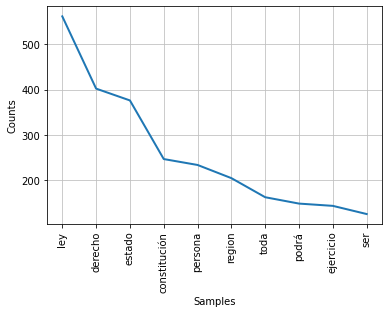
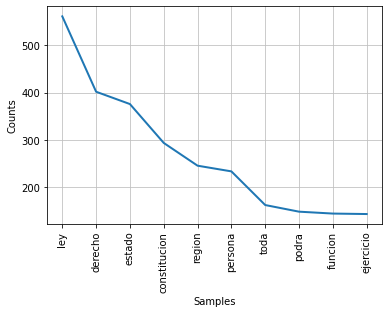
avances en codigo y modelos de clustering

diff --git a/proyecto_nueva_constitucion_chile.py b/proyecto_nueva_constitucion_chile.py
@@ -14,14 +14,30 @@ b) que al introducir un articulo indique el ámbito de la comisión al cual pert
 import pandas as pd
 import numpy as np
 
+####### NPL ########
 import re
+import nltk
+from nltk.stem import PorterStemmer
+from sklearn.feature_extraction.text import  TfidfVectorizer
+
+###### Graficos y visualizacion ########
+import matplotlib.pyplot as plt
 from wordcloud import WordCloud
 from PIL import Image # tratamiento de imagenes
 import PIL
+import seaborn as sns
 
-import nltk
-from nltk.stem import PorterStemmer
-import matplotlib.pyplot as plt
+###### PCA #######
+from sklearn.decomposition import PCA
+
+##### Clustering #####
+from sklearn.cluster import DBSCAN , KMeans , AgglomerativeClustering
+from sklearn.datasets import make_circles
+from sklearn.preprocessing import MinMaxScaler
+from sklearn.neighbors import NearestNeighbors
+from sklearn.metrics import silhouette_score
+from scipy.spatial import distance_matrix 
+from scipy.cluster import hierarchy 
 
 # %%
 '''datos obtenidos desde sitio web oficial de la convención 
@@ -38,36 +54,77 @@ data.head()
 # %%
 #juntamos los articulos en 1 solo texto no sé porque XD
 texto = data.Texto.sum()
+texto
 # %%
 'descargamos los stopwords en español'
 nltk.download('stopwords') 
-palabras_funcionales=nltk.corpus.stopwords.words("spanish")
-palabras_funcionales.remove('estado')
+sw=nltk.corpus.stopwords.words("spanish")
+sw.remove('estado')  # removemos la palabra estado de la lista de stopwords
 # %%
 'análisis EDA a través del uso del kit de NLTK'
 nltk.download('spanish_grammars')
+
 # %%
-data["Texto_tk"] = data["Texto"].apply(lambda x:nltk.word_tokenize(x,"spanish"))
-data["Texto_tk"] = data["Texto_tk"].apply(lambda x: list(map(str.lower, x)))
-# %%
-#eliminamos simbolos . , : ;
-simbolos = ['.',',', ':' ,';','\'','(',')','&','#','%']
-'quitamos los simbolos que no aportan en nada'
+'###### Funciones para de tratamiento de texto'
+#eliminamos simbolos . , : ; que no aportan para este analisis
+'''simbolos = ['.',',', ':' ,';','\'','(',')','&','#','%']
 for i in simbolos:
     for j in data["Texto_tk"]:
         try:
             j.remove(i)
         except:
-            continue
+            continue'''
+
+# función para quitar tildes
+def sin_tildes(s):
+    tildes = (
+        ("á", "a"),
+        ("é", "e"),
+        ("í", "i"),
+        ("ó", "o"),
+        ("ú", "u"),
+    )
+    for origen, destino in tildes:
+        s = s.replace(origen, destino)
+    return s
+
+# funcion para eliminar caracteres especiales, convierte todo a minúscula, quita tildes 
+def texto_limpio(texto):
+    texto = texto.lower() # convertir en minúsculas
+    texto = re.sub(r"[\W\d_]+", " ",texto) # remover caract especiales y números
+    texto = sin_tildes(texto) # remove tildes
+    #texto = texto.split() # tokenizar
+    #texto = [palabra for palabra in texto if len(palabra) > 3] # eliminar palabras con menos de 3 letras
+    #texto = [palabra for palabra in texto if palabra not in sw] # stopwords
+    #texto = " ".join(texto)
+    return texto
+
+# funcion para remover los stopwords y stemizar palabras tokenizadas dentro de una lista
+def quitar_stopwords(lista_tk):
+    stemmer = PorterStemmer()
+    tokens_limpios=[]
+    for token in lista_tk:
+        if token not in sw:
+            if len(token) > 1:
+                if token != "...":
+                    tokens_limpios.append(token)
+    return [stemmer.stem(word) for word in tokens_limpios]
 
 # %%
-'wordcloud texto tokenizado sin simbolos'
+'#### aplicamos las transformaciones para limpiar y generar tokens'
+data['Texto_limpio']= data['Texto'].astype(str)
+data['Texto_limpio'] = data['Texto'].apply(lambda texto: texto_limpio(texto)) 
+data["Texto_tk"] = data["Texto_limpio"].apply(lambda x:nltk.word_tokenize(x,"spanish"))
+# data["Texto_tk"] = data["Texto_tk"].apply(lambda x: list(map(str.lower, x)))
+data.head()
+# %%
+'wordcloud texto tokenizado sin simbolos ni numeros'
 texto_tk = data.Texto_tk.sum()
 texto_const= ''
 for i in texto_tk:
     texto_const=texto_const+' '+i
 
-texto_const_wc = WordCloud(background_color='black', max_words=len(texto_const), stopwords=palabras_funcionales)
+texto_const_wc = WordCloud(background_color='black', max_words=len(texto_const), stopwords=sw)
 texto_const_wc.generate(texto_const)
 
 fig, ax = plt.subplots(figsize=(10,10))
@@ -75,56 +132,48 @@ ax.imshow(texto_const_wc)
 ax.axis('off')
 plt.show()
 # %%
-'riqueza lexica baja 9%'
-tokens = data.Texto_tk.sum()
-palabras_totales = len(tokens)
-tokens_conjunto=set(tokens) 
-palabras_diferentes=len(tokens_conjunto)
-riqueza_lexica=palabras_diferentes/palabras_totales
+texto_tk
+# %%
+'riqueza lexica baja 9.9%'
+#tokens = data.Texto_tk.sum()
+palabras_totales = len(texto_tk) # calculo el total de palabras del texto
+palabras_unicas = set(texto_tk)  # creo objeto set de datos para tener palábras únicas
+palabras_diferentes = len(palabras_unicas) # calculo el total de palabras diferentes a partir del set de palabras
+riqueza_lexica = palabras_diferentes/palabras_totales # determino la riqueza léxica
 print('palabras totales',palabras_totales,'\n palabras diferentes',
     palabras_diferentes,'\n riqueza lexica',riqueza_lexica)
 
 # %%
 'dispersion palabra más repetidas y determino los hapaxes'
-texto_nltk=nltk.Text(tokens) 
-lista_palabras=["ley","derechos","podrá","personas","estado"] 
-texto_nltk.dispersion_plot(lista_palabras)
+texto_nltk = nltk.Text(texto_tk) # lo convierto a objeto texto de nltk
+lista_palabras = ["ley","derechos","podrá","personas","estado"] # lista de palabras más repetidas 
+texto_nltk.dispersion_plot(lista_palabras) # grafico la dispersión dentro del texto de las palabras más repetidas
+
+# %%
 # determino frecuencia de palababras
-distribucion=nltk.FreqDist(texto_nltk)
-lista_frecuencias=distribucion.most_common() 
+distribucion = nltk.FreqDist(texto_nltk) # calculo la distribución de la frecuencia de palabras dentro del texto
+lista_frecuencias = distribucion.most_common() # mismo cálculo de distribución pero como tipo de objeto lista
 # determino los hapax 
-hapaxes=distribucion.hapaxes() 
+hapaxes = distribucion.hapaxes() # buscamos los hapaxses sobre el objeto nltk de distribución de palabras 
 for hapax in hapaxes: 
     print(hapax)
-len(hapaxes)
-
-
+len(hapaxes) #2042
 # %%
-'definimos una funcion para remover los stopwords de una lista de tokens'
-
-def quitar_stopwords(tokens):
-    stemmer = PorterStemmer()
-    tokens_limpios=[]
-    for token in tokens:
-        if token not in palabras_funcionales:
-            if len(token) > 1:
-                if token != "...":
-                    tokens_limpios.append(token)
-    return [stemmer.stem(word) for word in tokens_limpios]
-print(data["Texto_tk"][0])
-
-data["Texto_tk_limpio"] = data["Texto_tk"].apply(lambda x: quitar_stopwords(x))
+# creamos nueva columna sobre datos limpios, ahora sin stopwords
+data["Texto_tk_sw_lm"] = data["Texto_tk"].apply(lambda x: quitar_stopwords(x))
+data.head()
 # %%
-tokens_limpios = data.Texto_tk_limpio.sum()
-nltk.FreqDist(nltk.Text(tokens_limpios)).plot(10)
+# repetimos ejercicio ahora sobre columna sin stopwords y graficamos frecuencia
+texto_tk_sw_lm = data.Texto_tk_sw_lm.sum()
+nltk.FreqDist(nltk.Text(texto_tk_sw_lm)).plot(10)
 # %%
 'wordcloud de palabras sin stopwords y stemizado'
-texto_tk_limpio = data.Texto_tk_limpio.sum()
+
 texto_const_limpio= ''
-for i in texto_tk:
+for i in texto_tk_sw_lm:
     texto_const_limpio=texto_const_limpio+' '+i
 
-texto_const_limpio_wc = WordCloud(background_color='black', max_words=len(texto_const_limpio), stopwords=palabras_funcionales)
+texto_const_limpio_wc = WordCloud(background_color='black', max_words=len(texto_const_limpio), stopwords=sw)
 texto_const_wc.generate(texto_const_limpio)
 
 fig, ax = plt.subplots(figsize=(10,10))
@@ -132,21 +181,163 @@ ax.imshow(texto_const_wc)
 ax.axis('off')
 plt.show()
 # %%
-# import sklearn.feature_extraction.text as txt
-from sklearn.feature_extraction.text import CountVectorizer
-from sklearn.feature_extraction.text import TfidfTransformer, TfidfVectorizer
+texto_const_limpio
+# %%
+'dispersion palabra más repetidas y determino los hapaxes'
+texto_nltk_swlm = nltk.Text(texto_tk_sw_lm) # lo convierto a objeto texto de nltk
+# determino frecuencia de palababras
+distribucion = nltk.FreqDist(texto_nltk_swlm) # calculo la distribución de la frecuencia de palabras dentro del texto
+lista_frecuencias = distribucion.most_common() # mismo cálculo de distribución pero como tipo de objeto lista
+lista_frecuencias
+# %%
+lista_palabras = ["ley","derecho","estado",'constitucion','region'] # lista de palabras más repetidas 
+texto_nltk_swlm.dispersion_plot(lista_palabras) # grafico la dispersión dentro del texto de las palabras más repetidas
 
 # %%
+# determino los hapax 
+hapaxes = distribucion.hapaxes() # buscamos los hapaxses sobre el objeto nltk de distribución de palabras 
+for hapax in hapaxes: 
+    print(hapax)
+len(hapaxes) #2042
+
+
+# %%
+'########## Vectorizamos ponderando peso de palabras por articulo ####################'
+data['Articulo_limpio'] = data["Texto_tk_sw_lm"].apply(lambda x: ' '.join(x)).values #convertimos en frase la lista de tokens para generar el vector
 'armamos el bag of words'
-#convertimos en frase la lista de tokens para generar el vector
-data['Texto_frase_limpia'] = data["Texto_tk_limpio"].apply(lambda x: ' '.join(x)).values
-count = CountVectorizer()
-array=data["Texto_frase_limpia"]
-bag = count.fit_transform(array)
-
-tfidf = TfidfTransformer()
+bag_articulos_limpios = np.array(data["Articulo_limpio"]) # convertimos token a array de palabras
 np.set_printoptions(precision=2)
-print(tfidf.fit_transform(bag).toarray().shape)
+vectorizador = TfidfVectorizer()
+matriz_palabras = vectorizador.fit_transform(bag_articulos_limpios)
+matriz_palabras = matriz_palabras.astype('float32')
 # %%
-TfidfVectorizer()
+matriz_palabras.toarray().shape
+
+# %%
+n_palabras= vectorizador.vocabulary_
+n_palabras
+'armamos la matriz con el objeto vectorizador ffidf'
+df2 = pd.DataFrame(matriz_palabras.toarray())  # el array de matriz palabras pasamos a dataframe
+df2.columns = vectorizador.get_feature_names_out() # agregamos nombres a las columnas con las palabras del vocabulario
+df2.head()
+nom_df2_colum = df2.columns
+nom_df2_colum
+
+# %%
+'############### PCA no me funciona con los pocos registros que hay...  #############'
+pca = PCA() # objeto de PCA n_components=1000 con un máximo de 1000 componentes
+pca = pca.fit(df2) # ajustamos el PCA al df2 de matriz de palabras
+
+print(pca.components_.shape)
+
+plt.plot(np.cumsum(pca.explained_variance_ratio_))
+plt.xlabel('number of components')
+plt.ylabel('Explained variance')
+plt.show()
+
+lista_PCA = [ 'PC'+str(i) for i in range(len(pca.components_)) ] # generamos la lista de nombres de componentes del PCA
+
+reduced_data = pca.transform(df2)  # aplicamos la transformación al dataframe de la matriz de palabras reduciendo la dimensionalidad
+reduced_data = pd.DataFrame(reduced_data, columns = lista_PCA) # agregamos nombre de las columnas asociadas a los componentes del PCA
+temp = data.reset_index() #df original reseteamos el indice para poder concatenar
+df3 = pd.concat([temp,reduced_data], axis=1) #concatenamos dataframe original con componentes
+
+
+# %%
+'############ datos para train y test ###########'
+#X = df3.drop(columns=['label'], axis=1) # creamos las variables independientes
+#y = df3['label']  # creamos la variable dependiente
+X = df2.values
+# %%
+'primero determinamos el valor de epsilon'
+neigh = NearestNeighbors(n_neighbors=2)
+nbrs = neigh.fit(X)
+distances, indices = nbrs.kneighbors(X)
+
+distances = np.sort(distances, axis=0)
+distances = distances[:,1]
+plt.plot(distances)
+# 1.25
+# %%
+epsilon = 1.25
+minimumSamples = 3
+db = DBSCAN(eps=epsilon, min_samples=minimumSamples).fit(X)
+labels_dbscan = db.labels_
+
+df2["clase-dbscan"]=labels_dbscan
+df3["clase-dbscan"]=labels_dbscan
+data["clase-dbscan"]=labels_dbscan
+
+plt.figure(figsize=(8,6))
+sns.scatterplot(df2['ley'] , df2['estado'], hue = df2['clase-dbscan'], palette="Set2")
+plt.show()
+# %%
+'K-means'
+# graficamos la inercia para determinar el codo
+inercias = [] 
+  
+for k in range(2,20): 
+    kmeans = KMeans(k)
+    kmeans.fit(X)     
+    inercias.append(kmeans.inertia_) 
+inercias
+
+plt.plot(range(2,20), inercias, 'bx-') 
+plt.xlabel('Ks') 
+plt.ylabel('Inercia') 
+plt.show()
+# %%
+# ahora graficamos la metrica silhouette 
+silhouette_coefficients = []
+for k in range(2, 20):
+    kmeans = KMeans(n_clusters=k)
+    kmeans.fit(X)
+    score = silhouette_score(X, kmeans.labels_)
+    silhouette_coefficients.append(score)
+
+plt.plot(range(2, 20), silhouette_coefficients)
+plt.xticks(range(2, 20))
+plt.xlabel("Number of Clusters")
+plt.ylabel("Silhouette Coefficient")
+plt.show()
+# definimos el número de cluster sobre el valor más alto de la silhouette  
+# %%
+###### 7 clusters la 
+kmeans = KMeans(n_clusters=4)
+kmeans.fit(X)
+kmeans.predict(X)
+
+### calculo los centroides
+kmeans.cluster_centers_
+df_centroides  = pd.DataFrame(data = kmeans.cluster_centers_, columns = nom_df2_colum)
+print(df_centroides)
+
+df2['clase-kmeans'] = kmeans.labels_
+data["clase-kmeans"] = kmeans.labels_
+df3["clase-kmeans"] = kmeans.labels_
+plt.figure(figsize=(8,6))
+sns.scatterplot(df2['ley'] , df2['estado'], hue = df2['clase-kmeans'], palette="Set2")
+plt.show()
+# %%
+'cluster jerarquico'
+# construyo matriz de distancias
+dist_matrix = distance_matrix(X,X)
+# elegimos el tipo de distancia 
+Z = hierarchy.linkage(dist_matrix, 'complete') 
+
+# graficamos el dendograma
+plt.figure(figsize=(20,10))
+dendro = hierarchy.dendrogram(Z)
+plt.tick_params(axis='x', labelsize=8)
+# %%
+# elegimos el numero de clusters para aglomerar
+agglom = AgglomerativeClustering(n_clusters = 4, linkage = 'complete')
+agglom.fit(X)
+df2['clase-jerarquico'] = agglom.labels_
+df3['clase-jerarquico'] = agglom.labels_
+data['clase-jerarquico'] = agglom.labels_
+
+plt.figure(figsize=(8,6))
+sns.scatterplot(df2['ley'] , df2['estado'], hue = df2['clase-jerarquico'], palette="Set2")
+plt.show()
 # %%
